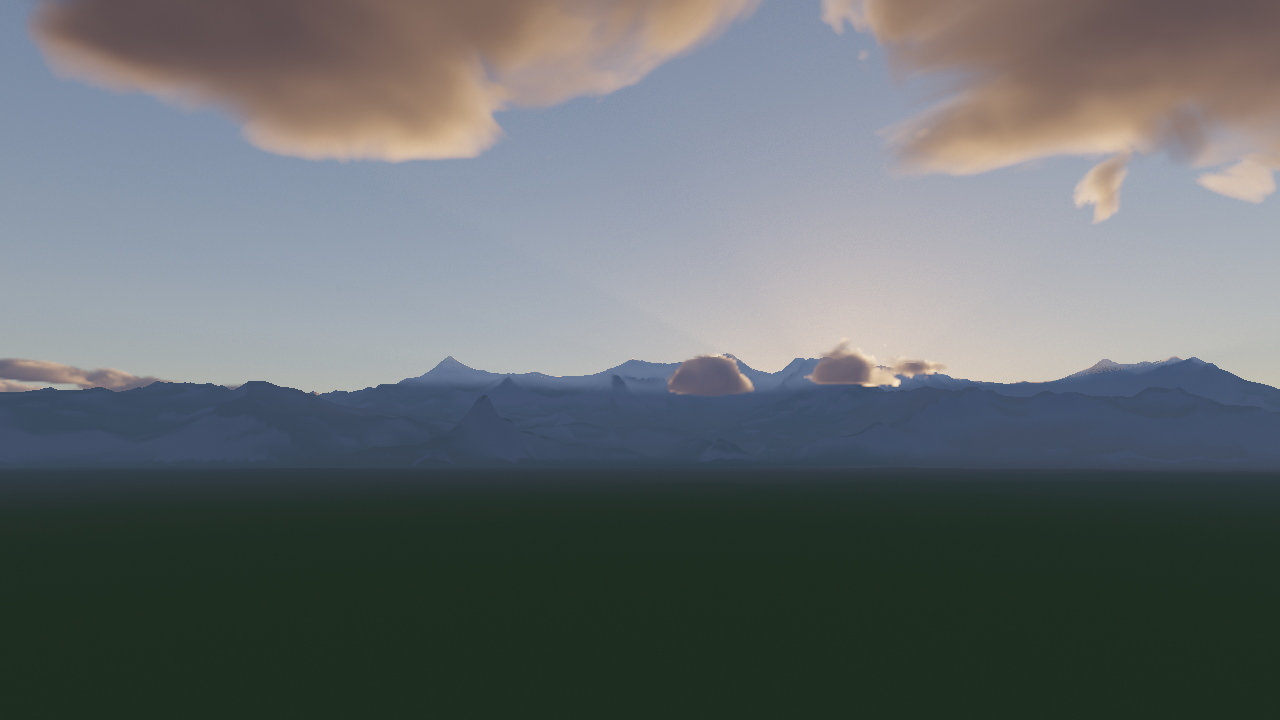
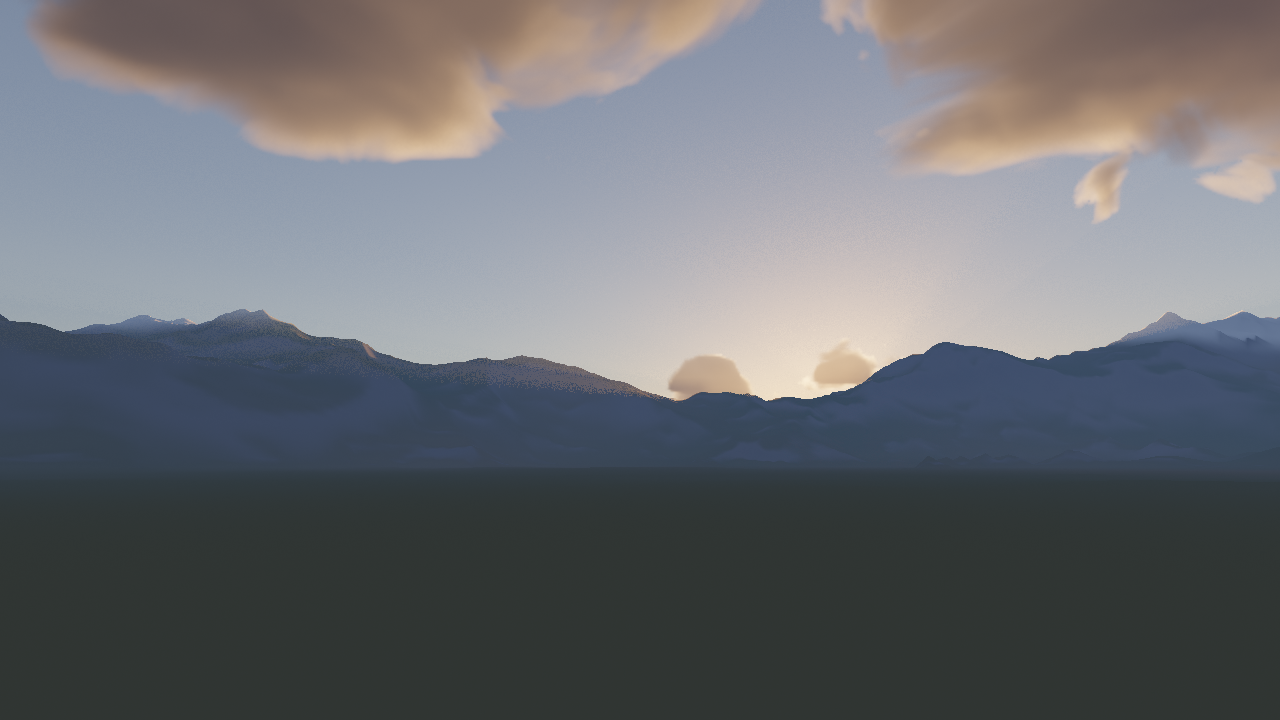
fix(docs): hash the atmosphere terrain and dither with integer arithmetic
The terrain noise and the tonemap dither hashed with fract(sin(h) * 43758.5),
whose sine of arguments in the thousands rounds differently on every GPU: the
thumbnail check rendered a different mountain range on Mesa than on Metal.
Both hashes are now pcg2d on the integer lattice cell or pixel, exact on any
platform. TERRAIN_SEED picks the landscape; 7 keeps the range across the
horizon with the sun behind the peaks. Thumbnails re-rendered.

Changed region(s): [[0.0, 0.4278, 1.0, 0.5806], [0.0, 0.5806, 0.0938, 0.6417]]

diff --git a/apps/docs/lib/examples-source.generated.ts b/apps/docs/lib/examples-source.generated.ts
@@ -521,7 +521,7 @@ export const exampleSources = {
       {
         "path": "terrain.wgsl",
         "language": "wgsl",
-        "content": "// Procedural ridged heightfield in kilometres: a flat valley around the camera, mountains from ~6 km out.\n\nexport const TERRAIN_MAX_DISTANCE: f32 = 90.0;\nexport const TERRAIN_MAX_HEIGHT: f32 = 3.2;\n/** The baked heightmap covers a square of this many km centred on the camera origin. */\nexport const TERRAIN_MAP_EXTENT: f32 = 200.0;\nexport const TERRAIN_MAP_SIZE: f32 = 2048.0;\n/** Ring grid of the terrain mesh (terrain-mesh.wgsl): azimuth columns around the camera axis and rings per column. */\nexport const TERRAIN_MESH_COLUMNS: u32 = 4096u;\nexport const TERRAIN_MESH_RINGS: u32 = 512u;\n/** Near plane (km) of the terrain depth prepass: reversed-Z, depth = TERRAIN_NEAR / view depth. */\nexport const TERRAIN_NEAR: f32 = 0.001;\n\nconst TAU: f32 = 6.28318530717959;\n/** Ring layout: fine geometric steps over the flat valley, 265 m steps across the mountains (heightmap texels are 98 m), coarse steps over the bare sphere. */\nconst NEAR_RINGS: u32 = 128u;\nconst MID_RINGS: u32 = 320u;\nconst NEAR_RADIUS: f32 = 0.005;\nconst MID_RADIUS: f32 = 5.0;\nconst FAR_RADIUS: f32 = 90.0;\nconst LAST_RADIUS: f32 = 400.0;\n\nfn ringRadius(ring: u32) -> f32 {\n  if (ring == 0u) { return 0.0; }\n  if (ring <= NEAR_RINGS) { return NEAR_RADIUS * pow(MID_RADIUS / NEAR_RADIUS, f32(ring - 1u) / f32(NEAR_RINGS - 1u)); }\n  if (ring <= NEAR_RINGS + MID_RINGS) { return MID_RADIUS + (FAR_RADIUS - MID_RADIUS) * f32(ring - NEAR_RINGS) / f32(MID_RINGS); }\n  return FAR_RADIUS * pow(LAST_RADIUS / FAR_RADIUS, f32(ring - NEAR_RINGS - MID_RINGS) / f32(TERRAIN_MESH_RINGS - NEAR_RINGS - MID_RINGS));\n}\n\n/**\n * A vertex of the terrain ring grid, relative to the ground point under the camera axis (0, groundRadius, 0).\n * The grid is a static set of rings around that axis: one triangle strip per azimuth column (`instanceIndex` plus\n * `columnOffset`), `TERRAIN_MESH_RINGS + 1` ring vertices on each side, no vertex buffers. Heights come from the\n * baked heightmap, and the surface sits at altitude h over the sphere: y = sqrt((R + h)^2 - r^2), formed here\n * without subtracting two 6360 km numbers, which f32 could not afford. Azimuth 0 is +Z, like the camera yaw.\n */\nexport fn terrainMeshVertex(vertexIndex: u32, instanceIndex: u32, columnOffset: u32, groundRadius: f32, map: texture_2d<f32>, mapSampler: sampler) -> vec3f {\n  let ring = vertexIndex / 2u;\n  let column = (columnOffset + instanceIndex + (vertexIndex & 1u)) % TERRAIN_MESH_COLUMNS;\n  let theta = f32(column) * (TAU / f32(TERRAIN_MESH_COLUMNS));\n  let radius = ringRadius(ring);\n  let xz = vec2f(sin(theta), cos(theta)) * radius;\n  let height = sampleTerrainHeight(map, mapSampler, xz);\n  let surfaceRadius = groundRadius + height;\n  let rr = dot(xz, xz);\n  let y = sqrt(max(surfaceRadius * surfaceRadius - rr, 0.0));\n  let relativeY = (height * (2.0 * groundRadius + height) - rr) / (y + groundRadius);\n  return vec3f(xz.x, relativeY, xz.y);\n}\nconst TERRAIN_SCALE: f32 = 1.0 / 16.0;\nconst OCTAVES: i32 = 6;\nconst ROTATE = mat2x2f(vec2f(0.8, 0.6), vec2f(-0.6, 0.8));\n\nfn hash2(p: vec2f) -> f32 {\n  let h = dot(p, vec2f(127.1, 311.7));\n  return fract(sin(h) * 43758.5453123);\n}\n\nfn valueNoise(p: vec2f) -> f32 {\n  let i = floor(p);\n  let f = fract(p);\n  let u = f * f * (3.0 - 2.0 * f);\n  let a = hash2(i);\n  let b = hash2(i + vec2f(1.0, 0.0));\n  let c = hash2(i + vec2f(0.0, 1.0));\n  let d = hash2(i + vec2f(1.0, 1.0));\n  return mix(mix(a, b, u.x), mix(c, d, u.x), u.y) * 2.0 - 1.0;\n}\n\n/** Height above sea level (km) at a tangent-plane position (km). */\nexport fn terrainHeight(xz: vec2f) -> f32 {\n  var p = xz * TERRAIN_SCALE;\n  var amplitude = 1.0;\n  var height = 0.0;\n  var weight = 1.0;\n  for (var i = 0; i < OCTAVES; i += 1) {\n    let n = 1.0 - abs(valueNoise(p));\n    height += n * n * amplitude * weight;\n    weight = clamp(n * 1.2, 0.0, 1.0);\n    p = ROTATE * p * 2.05 + vec2f(1.7, 9.2);\n    amplitude *= 0.5;\n  }\n  let distance = length(xz);\n  // Flat ground under the camera, foothills from ~1 km, full mountains beyond ~6 km, fading out before the march limit.\n  let valley = smoothstep(1.0, 6.0, distance);\n  let horizonFade = 1.0 - smoothstep(TERRAIN_MAX_DISTANCE * 0.7, TERRAIN_MAX_DISTANCE, distance);\n  let rolling = 0.02 * (valueNoise(xz * 0.9) + 0.5 * valueNoise(xz * 2.3 + 4.0)) * smoothstep(0.1, 1.0, distance);\n  let mountains = max(0.0, height - 0.55) * 2.6;\n  return max(0.0, (mountains * valley + rolling) * horizonFade);\n}\n\nfn terrainMapUv(xz: vec2f) -> vec2f { return xz / TERRAIN_MAP_EXTENT + 0.5; }\n\n/** Height (km) from the baked map; bilinear, clamped to the map edge where the terrain has already faded out. */\nexport fn sampleTerrainHeight(map: texture_2d<f32>, mapSampler: sampler, xz: vec2f) -> f32 {\n  return textureSampleLevel(map, mapSampler, terrainMapUv(xz), 0.0).r;\n}\n\nexport fn sampleTerrainNormal(map: texture_2d<f32>, mapSampler: sampler, xz: vec2f) -> vec3f {\n  return normalize(textureSampleLevel(map, mapSampler, terrainMapUv(xz), 0.0).gba);\n}\n\nexport fn terrainNormal(xz: vec2f, epsilon: f32) -> vec3f {\n  let dx = terrainHeight(xz + vec2f(epsilon, 0.0)) - terrainHeight(xz - vec2f(epsilon, 0.0));\n  let dz = terrainHeight(xz + vec2f(0.0, epsilon)) - terrainHeight(xz - vec2f(0.0, epsilon));\n  return normalize(vec3f(-dx, 2.0 * epsilon, -dz));\n}\n\n/** The two low-frequency noises the albedo uses, in [0, 1]; baked into the albedo map by terrain-heightmap.wgsl. */\nexport fn terrainAlbedoNoise(xz: vec2f) -> vec2f {\n  return vec2f(0.5 + 0.5 * valueNoise(xz * 0.35), 0.5 + 0.5 * valueNoise(xz * 0.2));\n}\n\nexport fn sampleTerrainAlbedoNoise(map: texture_2d<f32>, mapSampler: sampler, xz: vec2f) -> vec2f {\n  return textureSampleLevel(map, mapSampler, terrainMapUv(xz), 0.0).rg;\n}\n\n/** Albedo by altitude and slope: grass in the plains, rock on steep faces, snow near the peaks. `noise` comes from terrainAlbedoNoise. */\nexport fn terrainAlbedo(height: f32, normal: vec3f, noise: vec2f) -> vec3f {\n  let grass = vec3f(0.11, 0.13, 0.05);\n  let dry = vec3f(0.22, 0.17, 0.10);\n  let rock = vec3f(0.23, 0.21, 0.19);\n  let snow = vec3f(0.78, 0.80, 0.84);\n  var albedo = mix(grass, dry, noise.x);\n  let slope = 1.0 - normal.y;\n  albedo = mix(albedo, rock, smoothstep(0.08, 0.35, slope));\n  let snowLine = 1.9 + 0.35 * (noise.y * 2.0 - 1.0);\n  let snowAmount = smoothstep(snowLine, snowLine + 0.5, height) * (1.0 - smoothstep(0.35, 0.6, slope));\n  return mix(albedo, snow, snowAmount);\n}\n"
+        "content": "// Procedural ridged heightfield in kilometres: a flat valley around the camera, mountains from ~6 km out.\n\nexport const TERRAIN_MAX_DISTANCE: f32 = 90.0;\nexport const TERRAIN_MAX_HEIGHT: f32 = 3.2;\n/** The baked heightmap covers a square of this many km centred on the camera origin. */\nexport const TERRAIN_MAP_EXTENT: f32 = 200.0;\nexport const TERRAIN_MAP_SIZE: f32 = 2048.0;\n/** Ring grid of the terrain mesh (terrain-mesh.wgsl): azimuth columns around the camera axis and rings per column. */\nexport const TERRAIN_MESH_COLUMNS: u32 = 4096u;\nexport const TERRAIN_MESH_RINGS: u32 = 512u;\n/** Near plane (km) of the terrain depth prepass: reversed-Z, depth = TERRAIN_NEAR / view depth. */\nexport const TERRAIN_NEAR: f32 = 0.001;\n\nconst TAU: f32 = 6.28318530717959;\n/** Ring layout: fine geometric steps over the flat valley, 265 m steps across the mountains (heightmap texels are 98 m), coarse steps over the bare sphere. */\nconst NEAR_RINGS: u32 = 128u;\nconst MID_RINGS: u32 = 320u;\nconst NEAR_RADIUS: f32 = 0.005;\nconst MID_RADIUS: f32 = 5.0;\nconst FAR_RADIUS: f32 = 90.0;\nconst LAST_RADIUS: f32 = 400.0;\n\nfn ringRadius(ring: u32) -> f32 {\n  if (ring == 0u) { return 0.0; }\n  if (ring <= NEAR_RINGS) { return NEAR_RADIUS * pow(MID_RADIUS / NEAR_RADIUS, f32(ring - 1u) / f32(NEAR_RINGS - 1u)); }\n  if (ring <= NEAR_RINGS + MID_RINGS) { return MID_RADIUS + (FAR_RADIUS - MID_RADIUS) * f32(ring - NEAR_RINGS) / f32(MID_RINGS); }\n  return FAR_RADIUS * pow(LAST_RADIUS / FAR_RADIUS, f32(ring - NEAR_RINGS - MID_RINGS) / f32(TERRAIN_MESH_RINGS - NEAR_RINGS - MID_RINGS));\n}\n\n/**\n * A vertex of the terrain ring grid, relative to the ground point under the camera axis (0, groundRadius, 0).\n * The grid is a static set of rings around that axis: one triangle strip per azimuth column (`instanceIndex` plus\n * `columnOffset`), `TERRAIN_MESH_RINGS + 1` ring vertices on each side, no vertex buffers. Heights come from the\n * baked heightmap, and the surface sits at altitude h over the sphere: y = sqrt((R + h)^2 - r^2), formed here\n * without subtracting two 6360 km numbers, which f32 could not afford. Azimuth 0 is +Z, like the camera yaw.\n */\nexport fn terrainMeshVertex(vertexIndex: u32, instanceIndex: u32, columnOffset: u32, groundRadius: f32, map: texture_2d<f32>, mapSampler: sampler) -> vec3f {\n  let ring = vertexIndex / 2u;\n  let column = (columnOffset + instanceIndex + (vertexIndex & 1u)) % TERRAIN_MESH_COLUMNS;\n  let theta = f32(column) * (TAU / f32(TERRAIN_MESH_COLUMNS));\n  let radius = ringRadius(ring);\n  let xz = vec2f(sin(theta), cos(theta)) * radius;\n  let height = sampleTerrainHeight(map, mapSampler, xz);\n  let surfaceRadius = groundRadius + height;\n  let rr = dot(xz, xz);\n  let y = sqrt(max(surfaceRadius * surfaceRadius - rr, 0.0));\n  let relativeY = (height * (2.0 * groundRadius + height) - rr) / (y + groundRadius);\n  return vec3f(xz.x, relativeY, xz.y);\n}\nconst TERRAIN_SCALE: f32 = 1.0 / 16.0;\nconst OCTAVES: i32 = 6;\nconst ROTATE = mat2x2f(vec2f(0.8, 0.6), vec2f(-0.6, 0.8));\n\n/**\n * Uniform [0, 1) value per lattice cell from an integer hash (pcg2d). The usual fract(sin(h) * 43758.5)\n * hash takes the sine of arguments in the thousands, which every GPU rounds differently, so the same\n * terrain came out with different mountains on Metal and on Mesa; integer arithmetic is exact everywhere.\n */\n/** Offsets the lattice hash; picks which of the equally random landscapes the camera stands in. */\nconst TERRAIN_SEED: u32 = 7u;\n\nfn hash2(p: vec2f) -> f32 {\n  var v = (bitcast<vec2u>(vec2i(p)) + vec2u(TERRAIN_SEED, 0u)) * 1664525u + 1013904223u;\n  v.x += v.y * 1664525u; v.y += v.x * 1664525u;\n  v ^= v >> vec2u(16u);\n  v.x += v.y * 1664525u; v.y += v.x * 1664525u;\n  v ^= v >> vec2u(16u);\n  return f32((v.x ^ v.y) >> 8u) / 16777216.0;\n}\n\nfn valueNoise(p: vec2f) -> f32 {\n  let i = floor(p);\n  let f = fract(p);\n  let u = f * f * (3.0 - 2.0 * f);\n  let a = hash2(i);\n  let b = hash2(i + vec2f(1.0, 0.0));\n  let c = hash2(i + vec2f(0.0, 1.0));\n  let d = hash2(i + vec2f(1.0, 1.0));\n  return mix(mix(a, b, u.x), mix(c, d, u.x), u.y) * 2.0 - 1.0;\n}\n\n/** Height above sea level (km) at a tangent-plane position (km). */\nexport fn terrainHeight(xz: vec2f) -> f32 {\n  var p = xz * TERRAIN_SCALE;\n  var amplitude = 1.0;\n  var height = 0.0;\n  var weight = 1.0;\n  for (var i = 0; i < OCTAVES; i += 1) {\n    let n = 1.0 - abs(valueNoise(p));\n    height += n * n * amplitude * weight;\n    weight = clamp(n * 1.2, 0.0, 1.0);\n    p = ROTATE * p * 2.05 + vec2f(1.7, 9.2);\n    amplitude *= 0.5;\n  }\n  let distance = length(xz);\n  // Flat ground under the camera, foothills from ~1 km, full mountains beyond ~6 km, fading out before the march limit.\n  let valley = smoothstep(1.0, 6.0, distance);\n  let horizonFade = 1.0 - smoothstep(TERRAIN_MAX_DISTANCE * 0.7, TERRAIN_MAX_DISTANCE, distance);\n  let rolling = 0.02 * (valueNoise(xz * 0.9) + 0.5 * valueNoise(xz * 2.3 + 4.0)) * smoothstep(0.1, 1.0, distance);\n  let mountains = max(0.0, height - 0.55) * 2.6;\n  return max(0.0, (mountains * valley + rolling) * horizonFade);\n}\n\nfn terrainMapUv(xz: vec2f) -> vec2f { return xz / TERRAIN_MAP_EXTENT + 0.5; }\n\n/** Height (km) from the baked map; bilinear, clamped to the map edge where the terrain has already faded out. */\nexport fn sampleTerrainHeight(map: texture_2d<f32>, mapSampler: sampler, xz: vec2f) -> f32 {\n  return textureSampleLevel(map, mapSampler, terrainMapUv(xz), 0.0).r;\n}\n\nexport fn sampleTerrainNormal(map: texture_2d<f32>, mapSampler: sampler, xz: vec2f) -> vec3f {\n  return normalize(textureSampleLevel(map, mapSampler, terrainMapUv(xz), 0.0).gba);\n}\n\nexport fn terrainNormal(xz: vec2f, epsilon: f32) -> vec3f {\n  let dx = terrainHeight(xz + vec2f(epsilon, 0.0)) - terrainHeight(xz - vec2f(epsilon, 0.0));\n  let dz = terrainHeight(xz + vec2f(0.0, epsilon)) - terrainHeight(xz - vec2f(0.0, epsilon));\n  return normalize(vec3f(-dx, 2.0 * epsilon, -dz));\n}\n\n/** The two low-frequency noises the albedo uses, in [0, 1]; baked into the albedo map by terrain-heightmap.wgsl. */\nexport fn terrainAlbedoNoise(xz: vec2f) -> vec2f {\n  return vec2f(0.5 + 0.5 * valueNoise(xz * 0.35), 0.5 + 0.5 * valueNoise(xz * 0.2));\n}\n\nexport fn sampleTerrainAlbedoNoise(map: texture_2d<f32>, mapSampler: sampler, xz: vec2f) -> vec2f {\n  return textureSampleLevel(map, mapSampler, terrainMapUv(xz), 0.0).rg;\n}\n\n/** Albedo by altitude and slope: grass in the plains, rock on steep faces, snow near the peaks. `noise` comes from terrainAlbedoNoise. */\nexport fn terrainAlbedo(height: f32, normal: vec3f, noise: vec2f) -> vec3f {\n  let grass = vec3f(0.11, 0.13, 0.05);\n  let dry = vec3f(0.22, 0.17, 0.10);\n  let rock = vec3f(0.23, 0.21, 0.19);\n  let snow = vec3f(0.78, 0.80, 0.84);\n  var albedo = mix(grass, dry, noise.x);\n  let slope = 1.0 - normal.y;\n  albedo = mix(albedo, rock, smoothstep(0.08, 0.35, slope));\n  let snowLine = 1.9 + 0.35 * (noise.y * 2.0 - 1.0);\n  let snowAmount = smoothstep(snowLine, snowLine + 0.5, height) * (1.0 - smoothstep(0.35, 0.6, slope));\n  return mix(albedo, snow, snowAmount);\n}\n"
       },
       {
         "path": "terrain-heightmap.wgsl",
@@ -596,7 +596,7 @@ export const exampleSources = {
       {
         "path": "present.wgsl",
         "language": "wgsl",
-        "content": "struct Present { exposure: f32, tonemap: f32, dither: f32, pad: f32 };\n\n@group(0) @binding(0) var<uniform> present: Present;\n@group(0) @binding(1) var sceneHdr: texture_2d<f32>;\n@group(0) @binding(2) var cloudsHdr: texture_2d<f32>;\n@group(0) @binding(3) var linearSampler: sampler;\n\n// AgX (Wende's minimal fit, sRGB working space).\nconst AGX_INSET = mat3x3f(\n  vec3f(0.842479062253094, 0.0423282422610123, 0.0423756549057051),\n  vec3f(0.0784335999999992, 0.878468636469772, 0.0784336),\n  vec3f(0.0792237451477643, 0.0791661274605434, 0.879142973793104),\n);\nconst AGX_OUTSET = mat3x3f(\n  vec3f(1.19687900512017, -0.0528968517574562, -0.0529716355144438),\n  vec3f(-0.0980208811401368, 1.15190312990417, -0.0980434501171241),\n  vec3f(-0.0990297440797205, -0.0989611768448433, 1.15107367264116),\n);\nconst AGX_MIN_EV: f32 = -12.47393;\nconst AGX_MAX_EV: f32 = 4.026069;\n\nfn agxContrast(x: vec3f) -> vec3f {\n  let x2 = x * x;\n  let x4 = x2 * x2;\n  return 15.5 * x4 * x2 - 40.14 * x4 * x + 31.96 * x4 - 6.868 * x2 * x + 0.4298 * x2 + 0.1191 * x - 0.00232;\n}\n\nfn tonemapAgx(color: vec3f) -> vec3f {\n  var v = AGX_INSET * max(color, vec3f(1e-10));\n  v = clamp(log2(v), vec3f(AGX_MIN_EV), vec3f(AGX_MAX_EV));\n  v = (v - AGX_MIN_EV) / (AGX_MAX_EV - AGX_MIN_EV);\n  v = agxContrast(v);\n  v = AGX_OUTSET * v;\n  return pow(max(v, vec3f(0.0)), vec3f(2.2));\n}\n\nfn tonemapAces(color: vec3f) -> vec3f {\n  let x = color;\n  return saturate((x * (2.51 * x + 0.03)) / (x * (2.43 * x + 0.59) + 0.14));\n}\n\n// Khronos PBR Neutral: keeps hue until highlights, then desaturates toward white.\nfn tonemapNeutral(color: vec3f) -> vec3f {\n  let startCompression = 0.8 - 0.04;\n  let desaturation = 0.15;\n  var c = color;\n  let x = min(c.r, min(c.g, c.b));\n  let offset = select(0.04, x - 6.25 * x * x, x < 0.08);\n  c -= offset;\n  let peak = max(c.r, max(c.g, c.b));\n  if (peak < startCompression) { return c; }\n  let d = 1.0 - startCompression;\n  let newPeak = 1.0 - d * d / (peak + d - startCompression);\n  c *= newPeak / peak;\n  let g = 1.0 - 1.0 / (desaturation * (peak - newPeak) + 1.0);\n  return mix(c, vec3f(newPeak), g);\n}\n\nfn linearToSrgb(value: vec3f) -> vec3f {\n  let lo = value * 12.92;\n  let hi = 1.055 * pow(value, vec3f(1.0 / 2.4)) - 0.055;\n  return select(hi, lo, value <= vec3f(0.0031308));\n}\n\nfn hash(position: vec2f) -> f32 {\n  let h = dot(position, vec2f(127.1, 311.7));\n  return fract(sin(h) * 43758.5453123);\n}\n\n/**\n * Depth-aware upsample of the half-resolution cloud buffer: each bilinear tap is also weighted by how\n * closely the geometry distance under that tap matches this pixel's, which removes halos at silhouettes.\n */\nfn upsampleClouds(uv: vec2f, pixelDistance: f32) -> vec4f {\n  let size = vec2f(textureDimensions(cloudsHdr));\n  let sceneSize = vec2f(textureDimensions(sceneHdr));\n  let coord = uv * size - 0.5;\n  let base = floor(coord);\n  let f = fract(coord);\n  var sum = vec4f(0.0);\n  var weightSum = 0.0;\n  for (var i = 0; i < 4; i += 1) {\n    let corner = vec2f(f32(i & 1), f32(i >> 1));\n    let texel = clamp(base + corner, vec2f(0.0), size - 1.0);\n    let bilinear = mix(1.0 - f.x, f.x, corner.x) * mix(1.0 - f.y, f.y, corner.y);\n    let tapUv = (texel + 0.5) / size;\n    let tapDistance = textureLoad(sceneHdr, vec2i(tapUv * sceneSize), 0).a;\n    let sameKind = select(0.0, 1.0, (tapDistance > 0.0) == (pixelDistance > 0.0));\n    let depthWeight = sameKind / (1.0 + abs(tapDistance - pixelDistance) * 4.0);\n    let weight = bilinear * (0.001 + depthWeight);\n    sum += textureLoad(cloudsHdr, vec2i(texel), 0) * weight;\n    weightSum += weight;\n  }\n  return sum / max(weightSum, 1e-5);\n}\n\n@fragment fn fs_main(@builtin(position) fragCoord: vec4f, @location(0) uv: vec2f) -> @location(0) vec4f {\n  let scene = textureSample(sceneHdr, linearSampler, uv);\n  // Clouds are premultiplied luminance with transmittance in alpha, rendered at half resolution.\n  let cloud = upsampleClouds(uv, scene.a);\n  let hdr = (scene.rgb * cloud.a + cloud.rgb) * present.exposure;\n  var color = hdr;\n  if (present.tonemap < 0.5) { color = tonemapAgx(hdr); }\n  else if (present.tonemap < 1.5) { color = tonemapAces(hdr); }\n  else if (present.tonemap < 2.5) { color = tonemapNeutral(hdr); }\n  color = linearToSrgb(saturate(color));\n  color += (hash(fragCoord.xy) - 0.5) / 255.0 * present.dither;\n  return vec4f(saturate(color), 1.0);\n}\n"
+        "content": "struct Present { exposure: f32, tonemap: f32, dither: f32, pad: f32 };\n\n@group(0) @binding(0) var<uniform> present: Present;\n@group(0) @binding(1) var sceneHdr: texture_2d<f32>;\n@group(0) @binding(2) var cloudsHdr: texture_2d<f32>;\n@group(0) @binding(3) var linearSampler: sampler;\n\n// AgX (Wende's minimal fit, sRGB working space).\nconst AGX_INSET = mat3x3f(\n  vec3f(0.842479062253094, 0.0423282422610123, 0.0423756549057051),\n  vec3f(0.0784335999999992, 0.878468636469772, 0.0784336),\n  vec3f(0.0792237451477643, 0.0791661274605434, 0.879142973793104),\n);\nconst AGX_OUTSET = mat3x3f(\n  vec3f(1.19687900512017, -0.0528968517574562, -0.0529716355144438),\n  vec3f(-0.0980208811401368, 1.15190312990417, -0.0980434501171241),\n  vec3f(-0.0990297440797205, -0.0989611768448433, 1.15107367264116),\n);\nconst AGX_MIN_EV: f32 = -12.47393;\nconst AGX_MAX_EV: f32 = 4.026069;\n\nfn agxContrast(x: vec3f) -> vec3f {\n  let x2 = x * x;\n  let x4 = x2 * x2;\n  return 15.5 * x4 * x2 - 40.14 * x4 * x + 31.96 * x4 - 6.868 * x2 * x + 0.4298 * x2 + 0.1191 * x - 0.00232;\n}\n\nfn tonemapAgx(color: vec3f) -> vec3f {\n  var v = AGX_INSET * max(color, vec3f(1e-10));\n  v = clamp(log2(v), vec3f(AGX_MIN_EV), vec3f(AGX_MAX_EV));\n  v = (v - AGX_MIN_EV) / (AGX_MAX_EV - AGX_MIN_EV);\n  v = agxContrast(v);\n  v = AGX_OUTSET * v;\n  return pow(max(v, vec3f(0.0)), vec3f(2.2));\n}\n\nfn tonemapAces(color: vec3f) -> vec3f {\n  let x = color;\n  return saturate((x * (2.51 * x + 0.03)) / (x * (2.43 * x + 0.59) + 0.14));\n}\n\n// Khronos PBR Neutral: keeps hue until highlights, then desaturates toward white.\nfn tonemapNeutral(color: vec3f) -> vec3f {\n  let startCompression = 0.8 - 0.04;\n  let desaturation = 0.15;\n  var c = color;\n  let x = min(c.r, min(c.g, c.b));\n  let offset = select(0.04, x - 6.25 * x * x, x < 0.08);\n  c -= offset;\n  let peak = max(c.r, max(c.g, c.b));\n  if (peak < startCompression) { return c; }\n  let d = 1.0 - startCompression;\n  let newPeak = 1.0 - d * d / (peak + d - startCompression);\n  c *= newPeak / peak;\n  let g = 1.0 - 1.0 / (desaturation * (peak - newPeak) + 1.0);\n  return mix(c, vec3f(newPeak), g);\n}\n\nfn linearToSrgb(value: vec3f) -> vec3f {\n  let lo = value * 12.92;\n  let hi = 1.055 * pow(value, vec3f(1.0 / 2.4)) - 0.055;\n  return select(hi, lo, value <= vec3f(0.0031308));\n}\n\n/** Uniform [0, 1) per pixel from an integer hash (pcg2d); a sine hash rounds differently on every GPU. */\nfn hash(position: vec2f) -> f32 {\n  var v = bitcast<vec2u>(vec2i(position)) * 1664525u + 1013904223u;\n  v.x += v.y * 1664525u; v.y += v.x * 1664525u;\n  v ^= v >> vec2u(16u);\n  v.x += v.y * 1664525u; v.y += v.x * 1664525u;\n  v ^= v >> vec2u(16u);\n  return f32((v.x ^ v.y) >> 8u) / 16777216.0;\n}\n\n/**\n * Depth-aware upsample of the half-resolution cloud buffer: each bilinear tap is also weighted by how\n * closely the geometry distance under that tap matches this pixel's, which removes halos at silhouettes.\n */\nfn upsampleClouds(uv: vec2f, pixelDistance: f32) -> vec4f {\n  let size = vec2f(textureDimensions(cloudsHdr));\n  let sceneSize = vec2f(textureDimensions(sceneHdr));\n  let coord = uv * size - 0.5;\n  let base = floor(coord);\n  let f = fract(coord);\n  var sum = vec4f(0.0);\n  var weightSum = 0.0;\n  for (var i = 0; i < 4; i += 1) {\n    let corner = vec2f(f32(i & 1), f32(i >> 1));\n    let texel = clamp(base + corner, vec2f(0.0), size - 1.0);\n    let bilinear = mix(1.0 - f.x, f.x, corner.x) * mix(1.0 - f.y, f.y, corner.y);\n    let tapUv = (texel + 0.5) / size;\n    let tapDistance = textureLoad(sceneHdr, vec2i(tapUv * sceneSize), 0).a;\n    let sameKind = select(0.0, 1.0, (tapDistance > 0.0) == (pixelDistance > 0.0));\n    let depthWeight = sameKind / (1.0 + abs(tapDistance - pixelDistance) * 4.0);\n    let weight = bilinear * (0.001 + depthWeight);\n    sum += textureLoad(cloudsHdr, vec2i(texel), 0) * weight;\n    weightSum += weight;\n  }\n  return sum / max(weightSum, 1e-5);\n}\n\n@fragment fn fs_main(@builtin(position) fragCoord: vec4f, @location(0) uv: vec2f) -> @location(0) vec4f {\n  let scene = textureSample(sceneHdr, linearSampler, uv);\n  // Clouds are premultiplied luminance with transmittance in alpha, rendered at half resolution.\n  let cloud = upsampleClouds(uv, scene.a);\n  let hdr = (scene.rgb * cloud.a + cloud.rgb) * present.exposure;\n  var color = hdr;\n  if (present.tonemap < 0.5) { color = tonemapAgx(hdr); }\n  else if (present.tonemap < 1.5) { color = tonemapAces(hdr); }\n  else if (present.tonemap < 2.5) { color = tonemapNeutral(hdr); }\n  color = linearToSrgb(saturate(color));\n  color += (hash(fragCoord.xy) - 0.5) / 255.0 * present.dither;\n  return vec4f(saturate(color), 1.0);\n}\n"
       },
       {
         "path": "lut-preview.wgsl",
